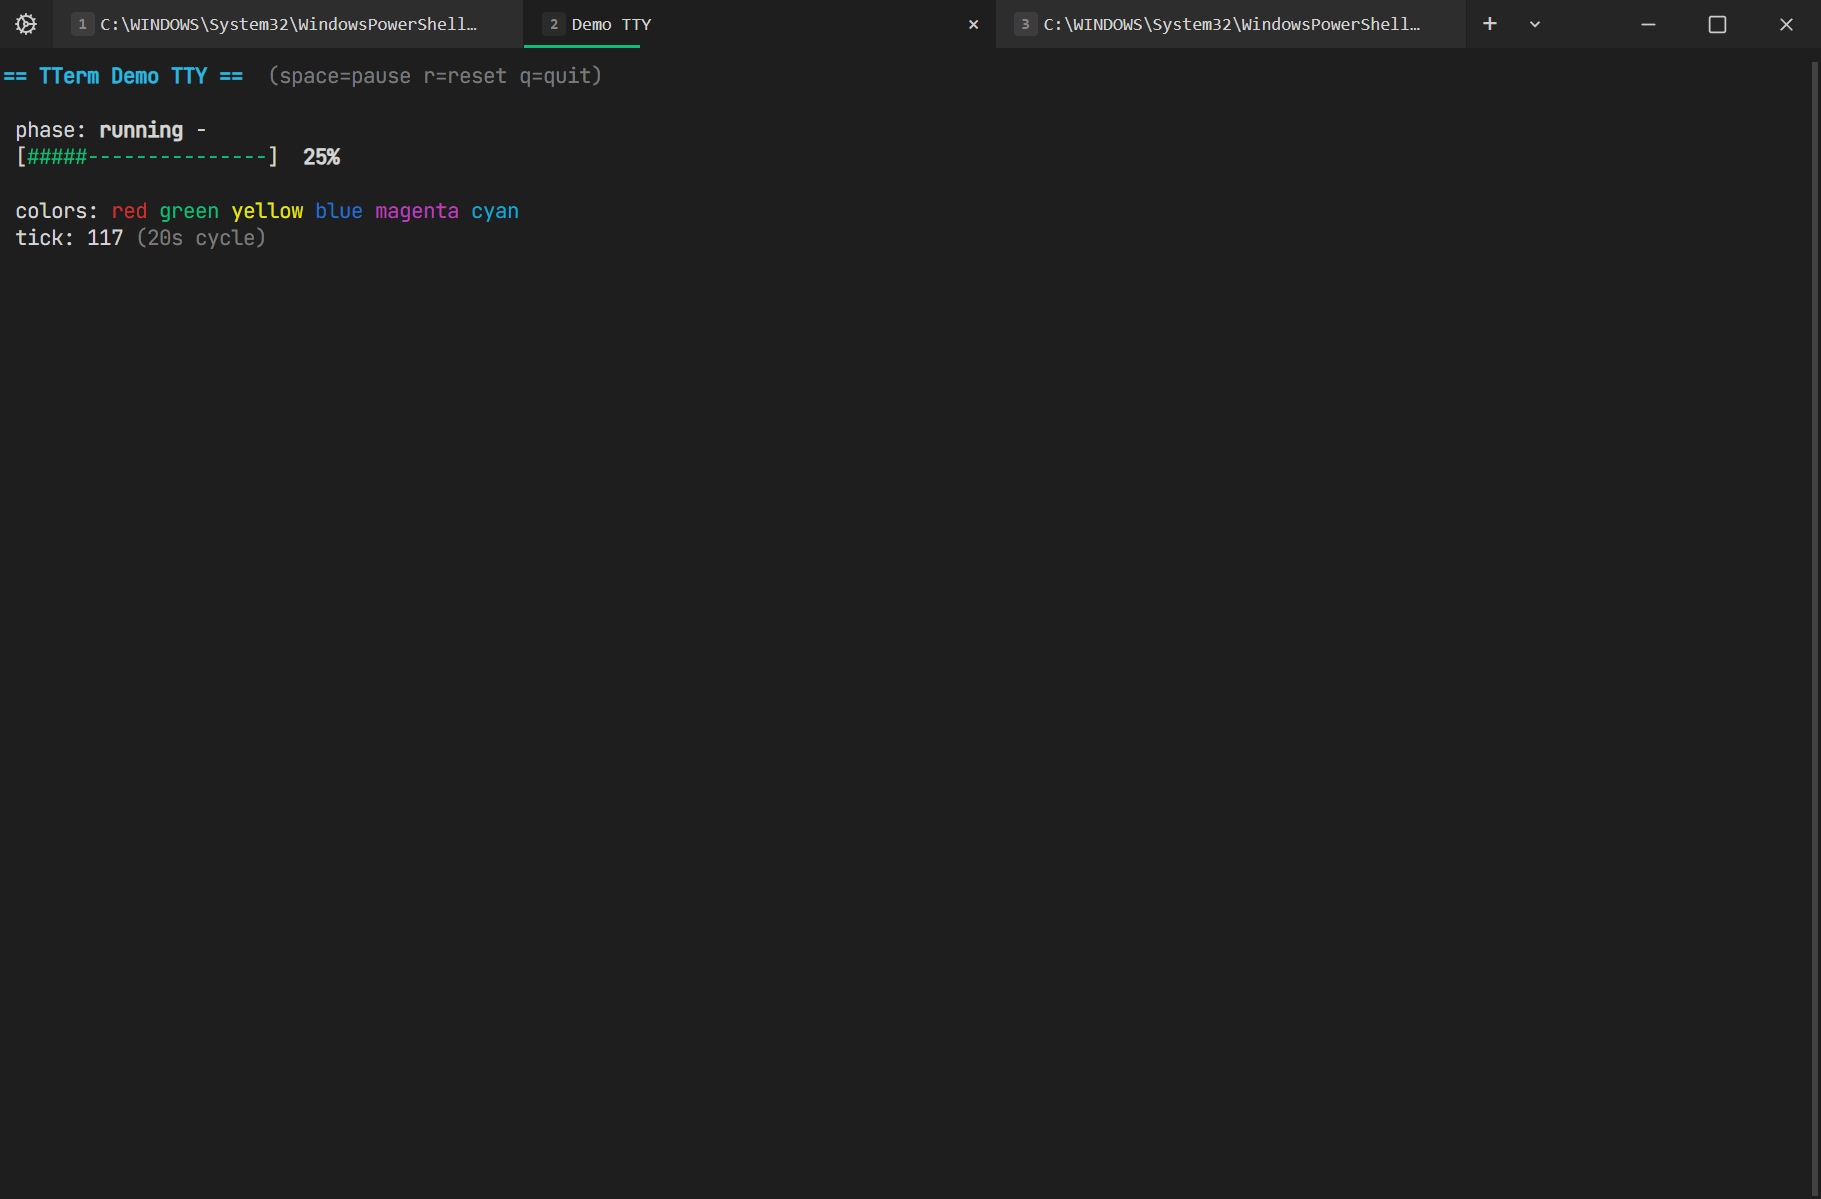
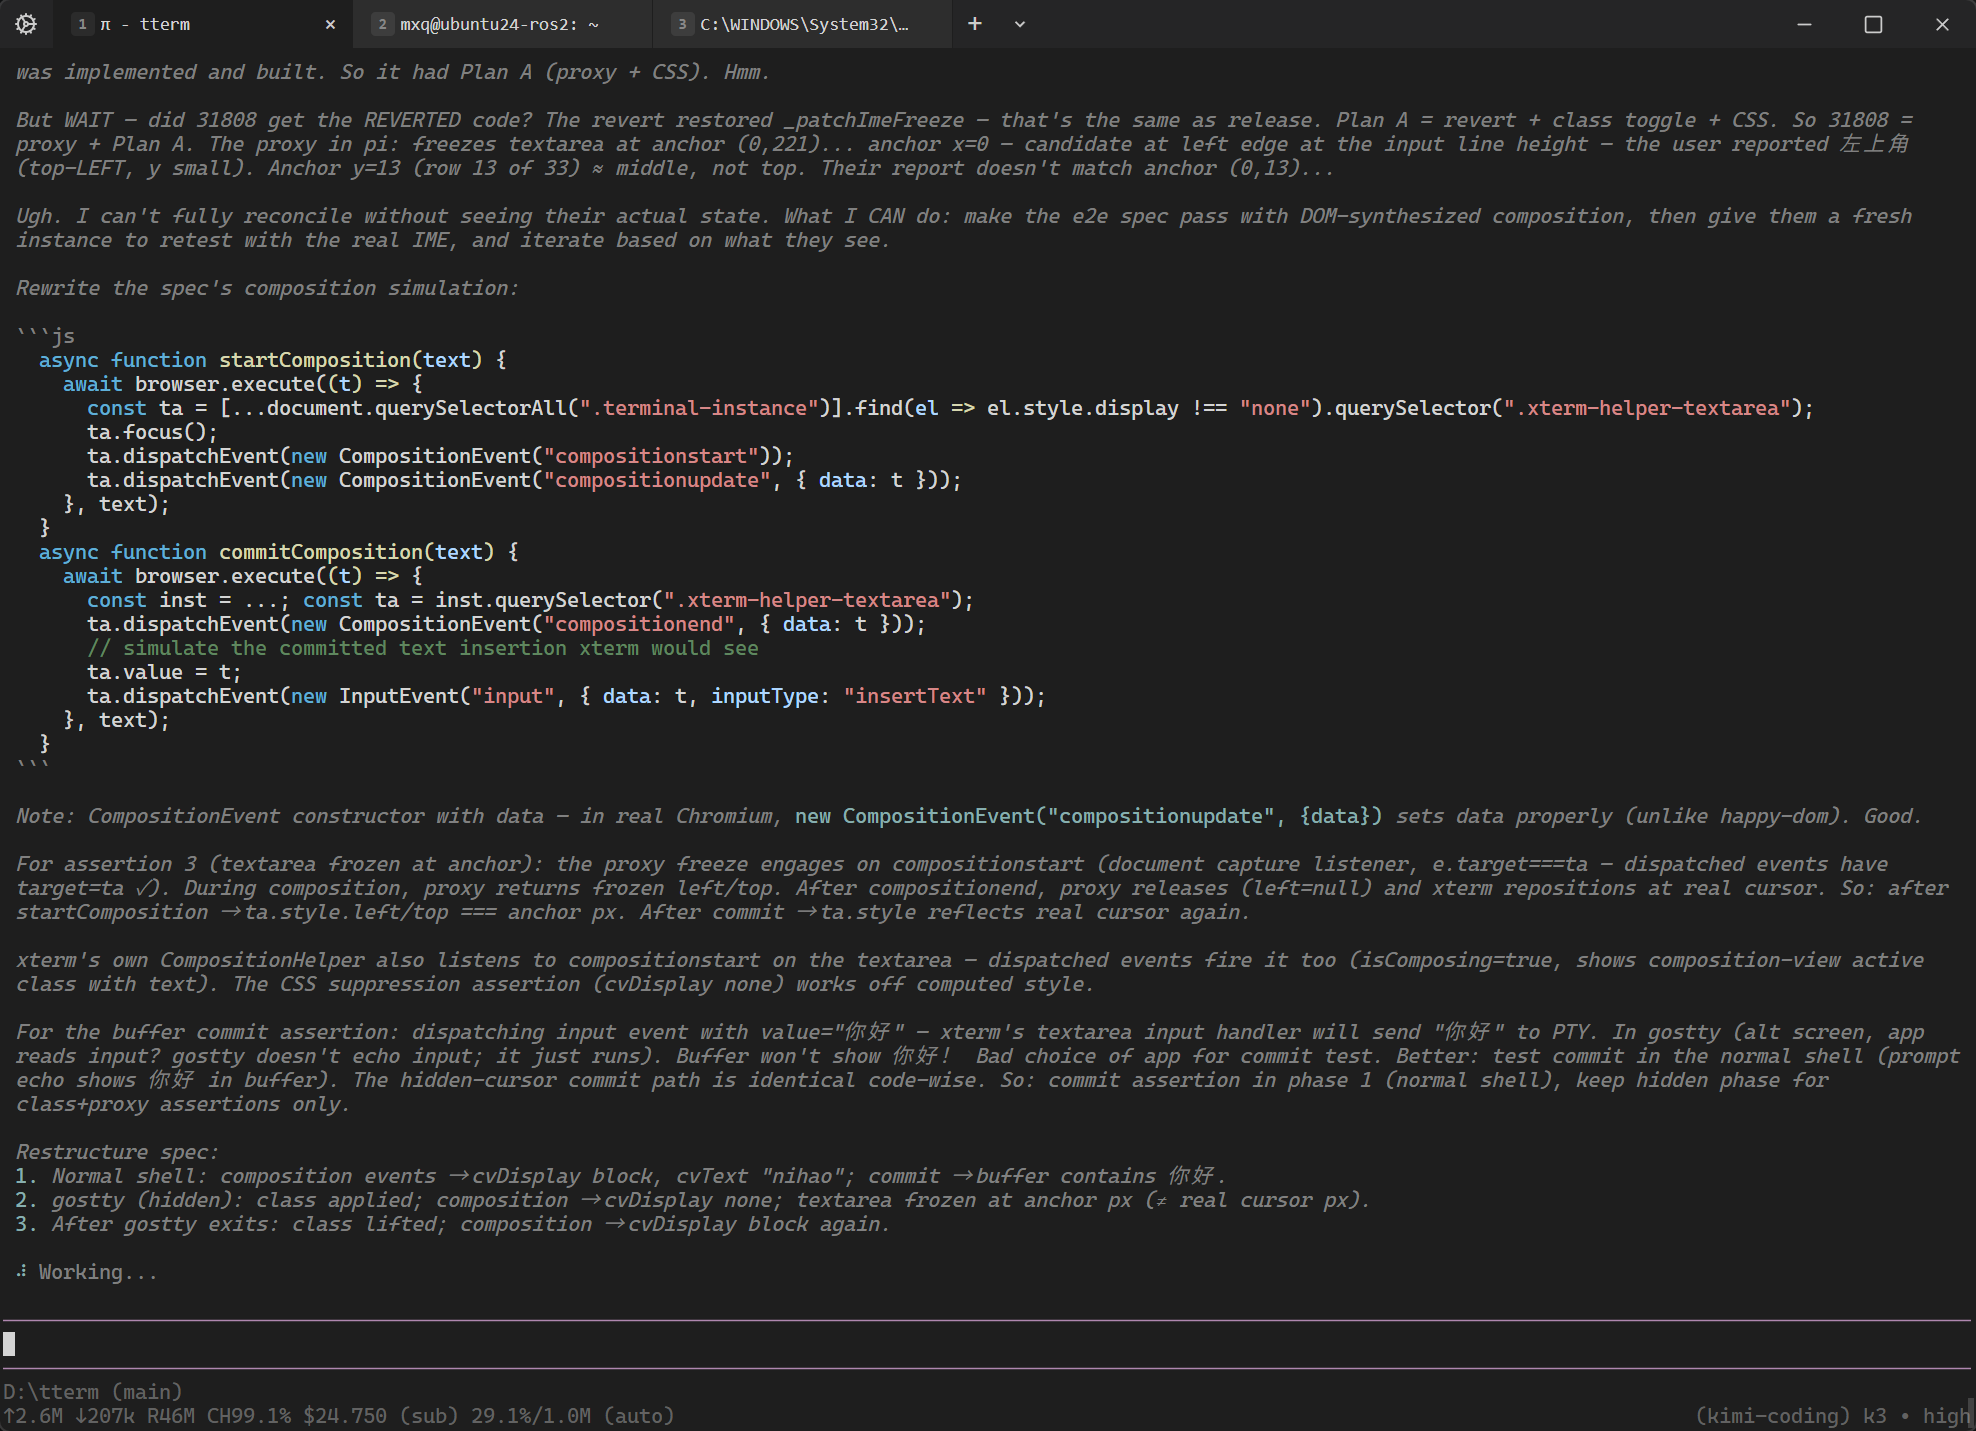
docs: refresh README screenshots with real usage shots
- Hero: pi agent session with SSH/serial tabs
- New gallery row: profile menu (Local/SSH/Serial) and theme gallery

diff --git a/README_CN.md b/README_CN.md
@@ -32,6 +32,11 @@
 - **断线不怕** — 会话断开后按一下回车，原地重连
 - **主题画廊** — 12 款内置配色 + 自动导入 Windows Terminal 方案，所见即所得
 
+<p align="center">
+  <img src="docs/images/screenshot-profiles.png" width="410" alt="新建标签菜单：本地 shell、SSH 主机、串口" />
+  <img src="docs/images/screenshot-themes.png" width="410" alt="设置中的主题画廊" />
+</p>
+
 ## 下载
 
 从 [Releases](https://github.com/rede97/tterm/releases/latest) 获取安装包（NSIS / MSI）。

diff --git a/README.md b/README.md
@@ -34,6 +34,11 @@
 - **Theme gallery** — 12 built-in schemes plus automatic Windows Terminal
   import, all previewed in your actual terminal font.
 
+<p align="center">
+  <img src="docs/images/screenshot-profiles.png" width="410" alt="Profile menu: local shells, SSH hosts, serial ports" />
+  <img src="docs/images/screenshot-themes.png" width="410" alt="Theme gallery in Settings" />
+</p>
+
 ## Download
 
 Grab the installer (NSIS / MSI) from [Releases](https://github.com/rede97/tterm/releases/latest).
